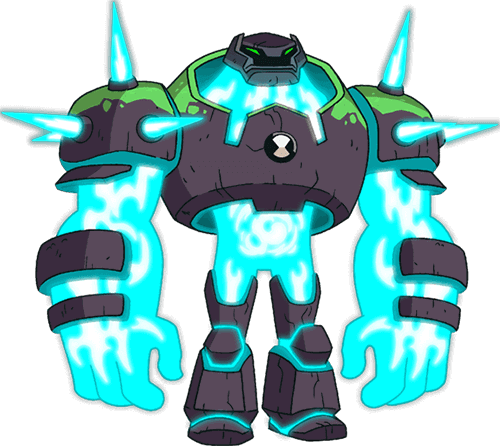
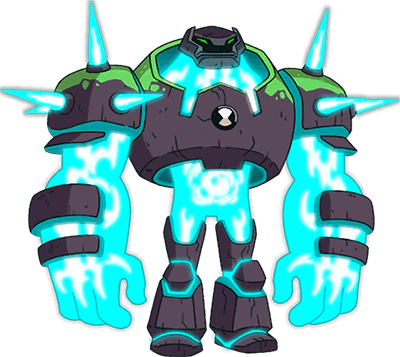
chore: alterado as imgs de choque rochoso do rb

diff --git a/resources/js/aliens/benReboot.js b/resources/js/aliens/benReboot.js
@@ -10,7 +10,7 @@ const arrBenRebootAliens = [
     
     {nomePtbr: 'Chama', nomeIngles: "Heatblast", seasonName: 'primeBenRbHeatBlast', wikiUrl: 'https://ben10.fandom.com/wiki/Heatblast_(Reboot)', imgRb: ['./assets/img/aliens/ben-reboot/chama-(reboot)-1.png', './assets/img/aliens/ben-reboot/chama-(reboot)-2.png', './assets/img/aliens/ben-reboot/chama-(reboot)-3.png', './assets/img/aliens/ben-reboot/chama-(reboot)-4.png', './assets/img/aliens/ben-reboot/chama-(reboot)-5.png']},
 
-    {nomePtbr: 'Choque Rochoso', nomeIngles: "Shock Rock", seasonName: 'primeBenRbShockRock', wikiUrl: 'https://ben10.fandom.com/wiki/Shock_Rock', imgRb: ['./assets/img/aliens/ben-reboot/choque-rochoso-(reboot)-1.png', './assets/img/aliens/ben-reboot/choque-rochoso-(reboot)-2.png']},
+    {nomePtbr: 'Choque Rochoso', nomeIngles: "Shock Rock", seasonName: 'primeBenRbShockRock', wikiUrl: 'https://ben10.fandom.com/wiki/Shock_Rock', imgRb: ['./assets/img/aliens/ben-reboot/choque-rochoso-(reboot)-1.png', './assets/img/aliens/ben-reboot/choque-rochoso-(reboot)-2.png', './assets/img/aliens/ben-reboot/choque-rochoso-(reboot)-3.png', './assets/img/aliens/ben-reboot/choque-rochoso-(reboot)-4.png', './assets/img/aliens/ben-reboot/choque-rochoso-(reboot)-5.png', './assets/img/aliens/ben-reboot/choque-rochoso-(reboot)-6.png']},
 
     {nomePtbr: 'Cipó Selvagem', nomeIngles: "Wildvine", seasonName: 'primeBenRbWildvine', wikiUrl: 'https://ben10.fandom.com/wiki/Wildvine_(Reboot)', imgRb: ['./assets/img/aliens/ben-reboot/cipo-selvagem-(reboot)-1.png', './assets/img/aliens/ben-reboot/cipo-selvagem-(reboot)-2.png', './assets/img/aliens/ben-reboot/cipo-selvagem-(reboot)-3.png', './assets/img/aliens/ben-reboot/cipo-selvagem-(reboot)-4.png', './assets/img/aliens/ben-reboot/cipo-selvagem-(reboot)-5.png']},
 

diff --git a/resources/css/modal.css b/resources/css/modal.css
@@ -242,7 +242,7 @@
         height: auto !important;
     }
 
-    #primeBenRbFourArms3, #primeBenRbJetray4, #primeBenRbJetray5, #primeBenRbCannonBolt3, #primeBenRbCannonBolt5, #primeBenRbCannonBolt6, #primeBenRbHeatBlast5 {
+    #primeBenRbFourArms3, #primeBenRbJetray4, #primeBenRbJetray5, #primeBenRbCannonBolt3, #primeBenRbCannonBolt5, #primeBenRbCannonBolt6, #primeBenRbHeatBlast5, #primeBenRbShockRockModal li:not(#primeBenRbShockRock2) {
         height: auto !important;
     }
 }
